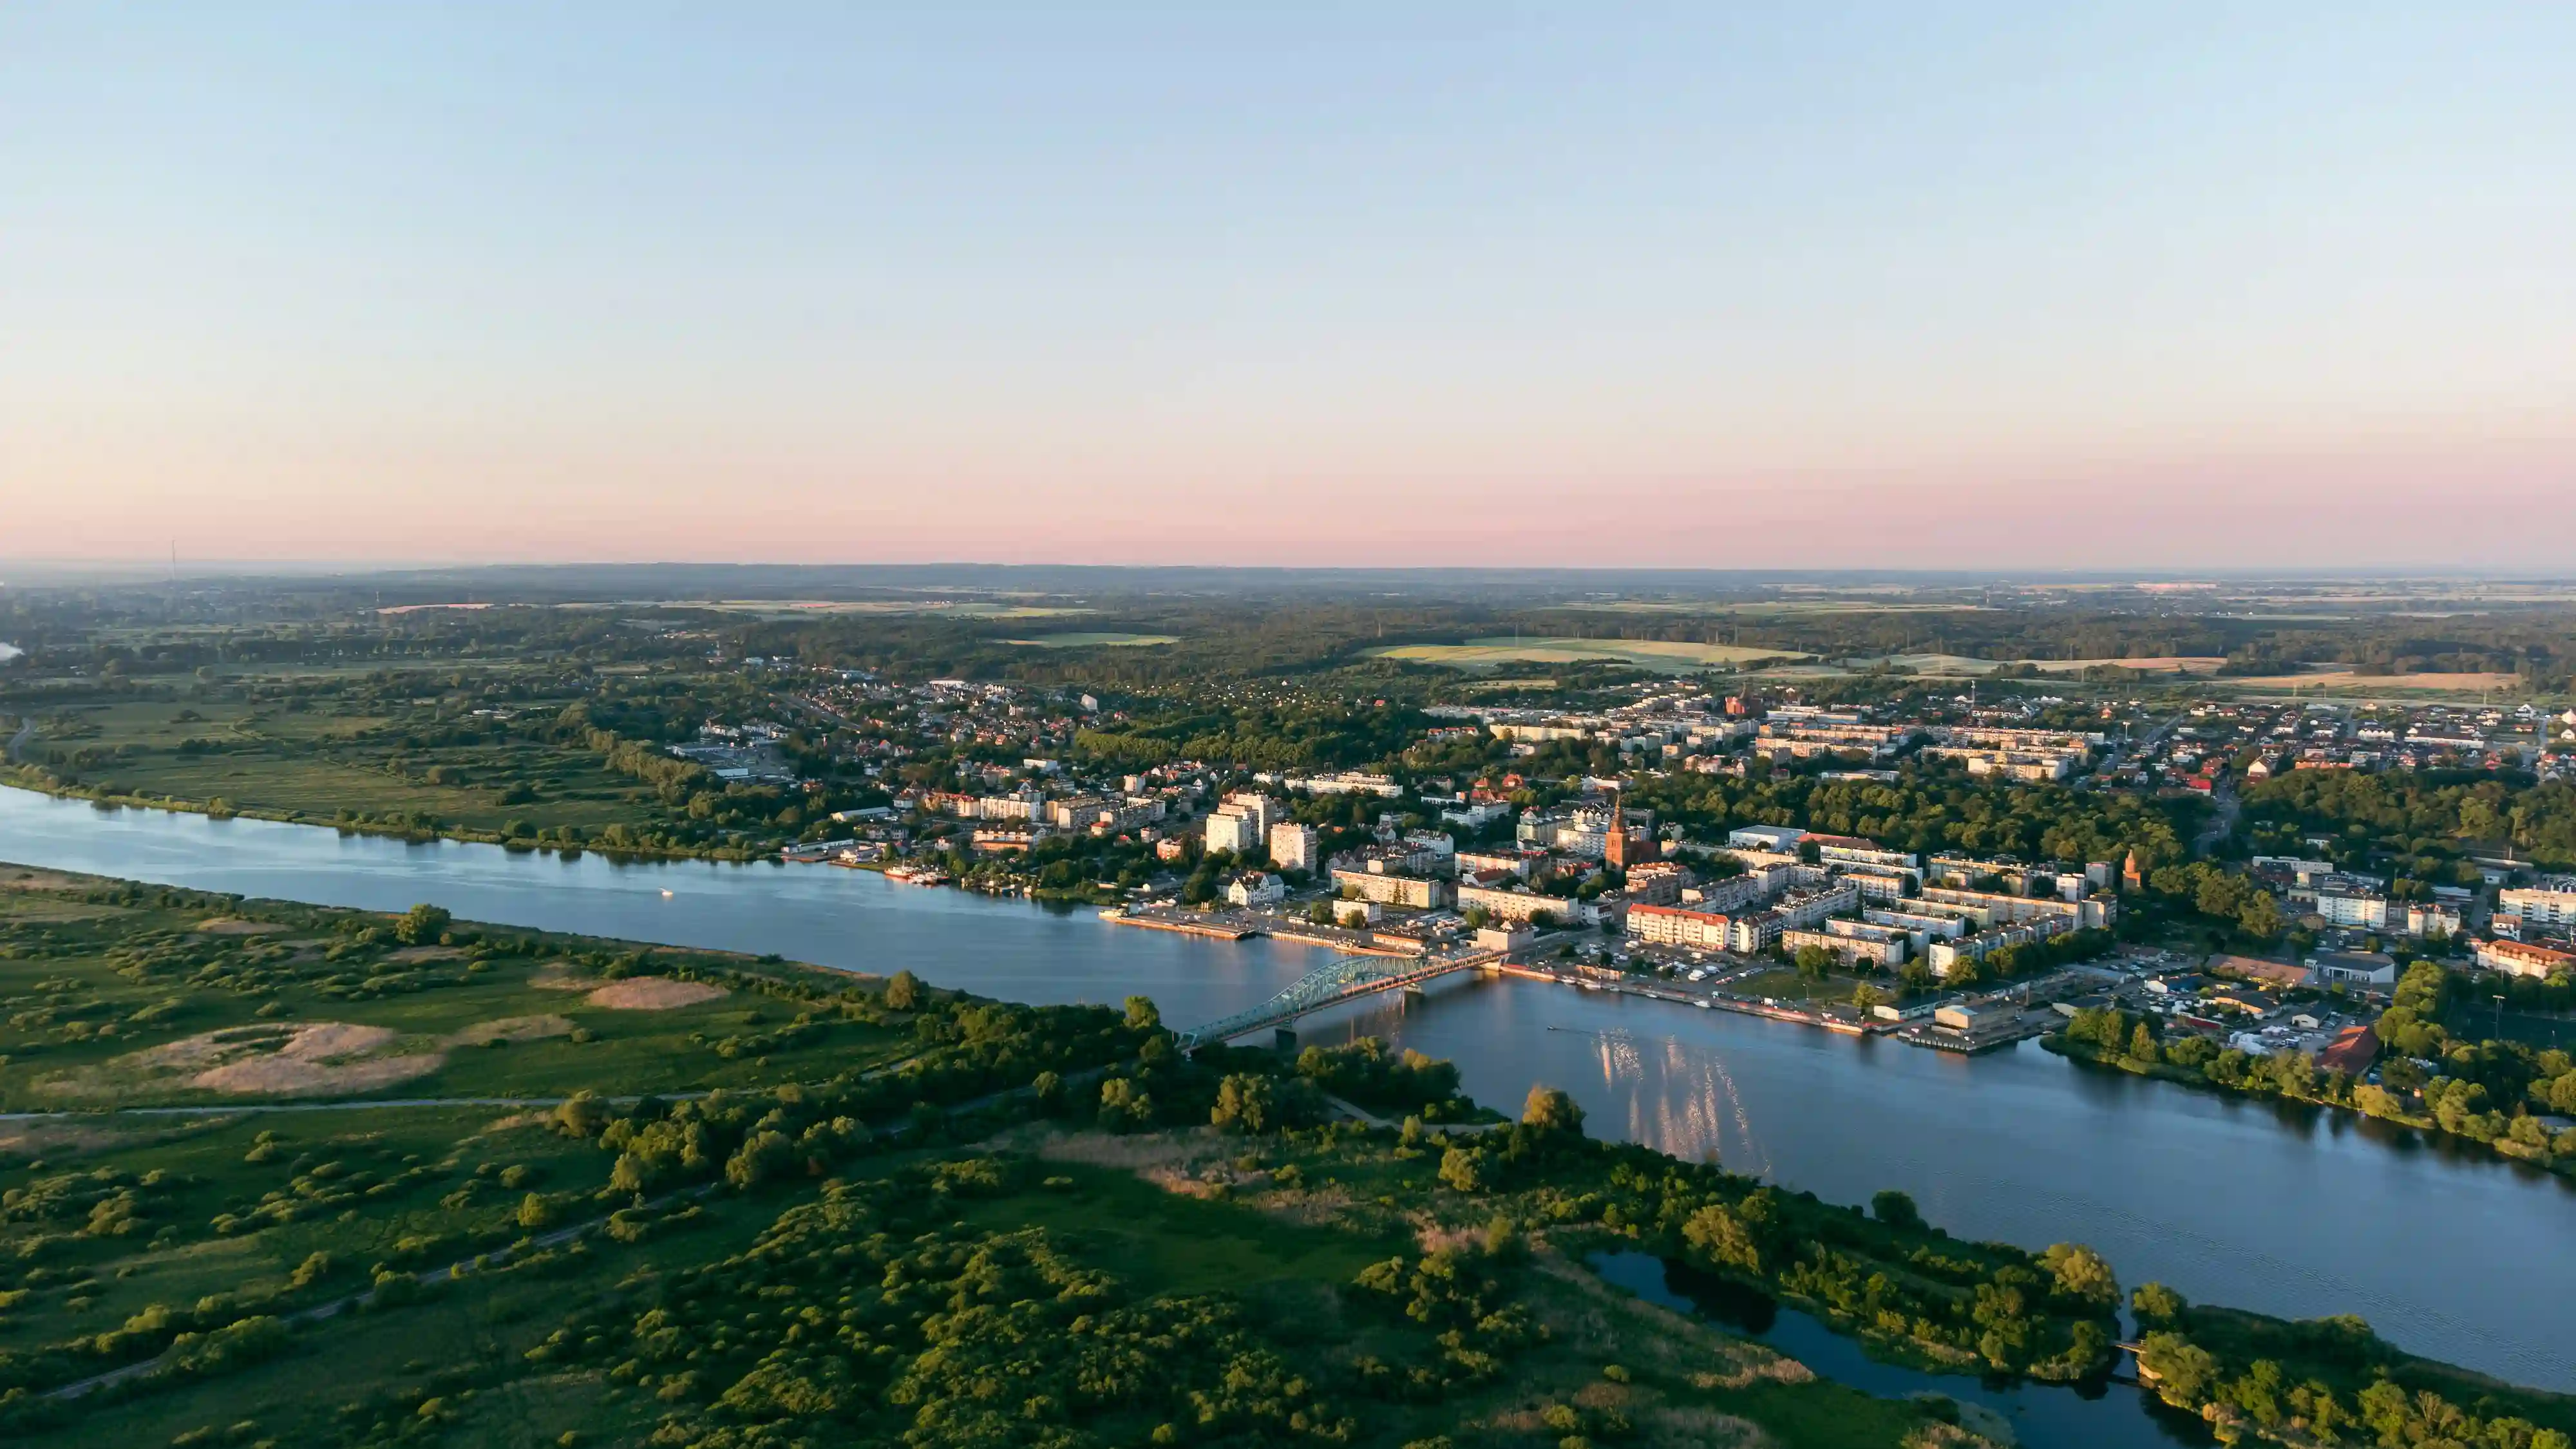
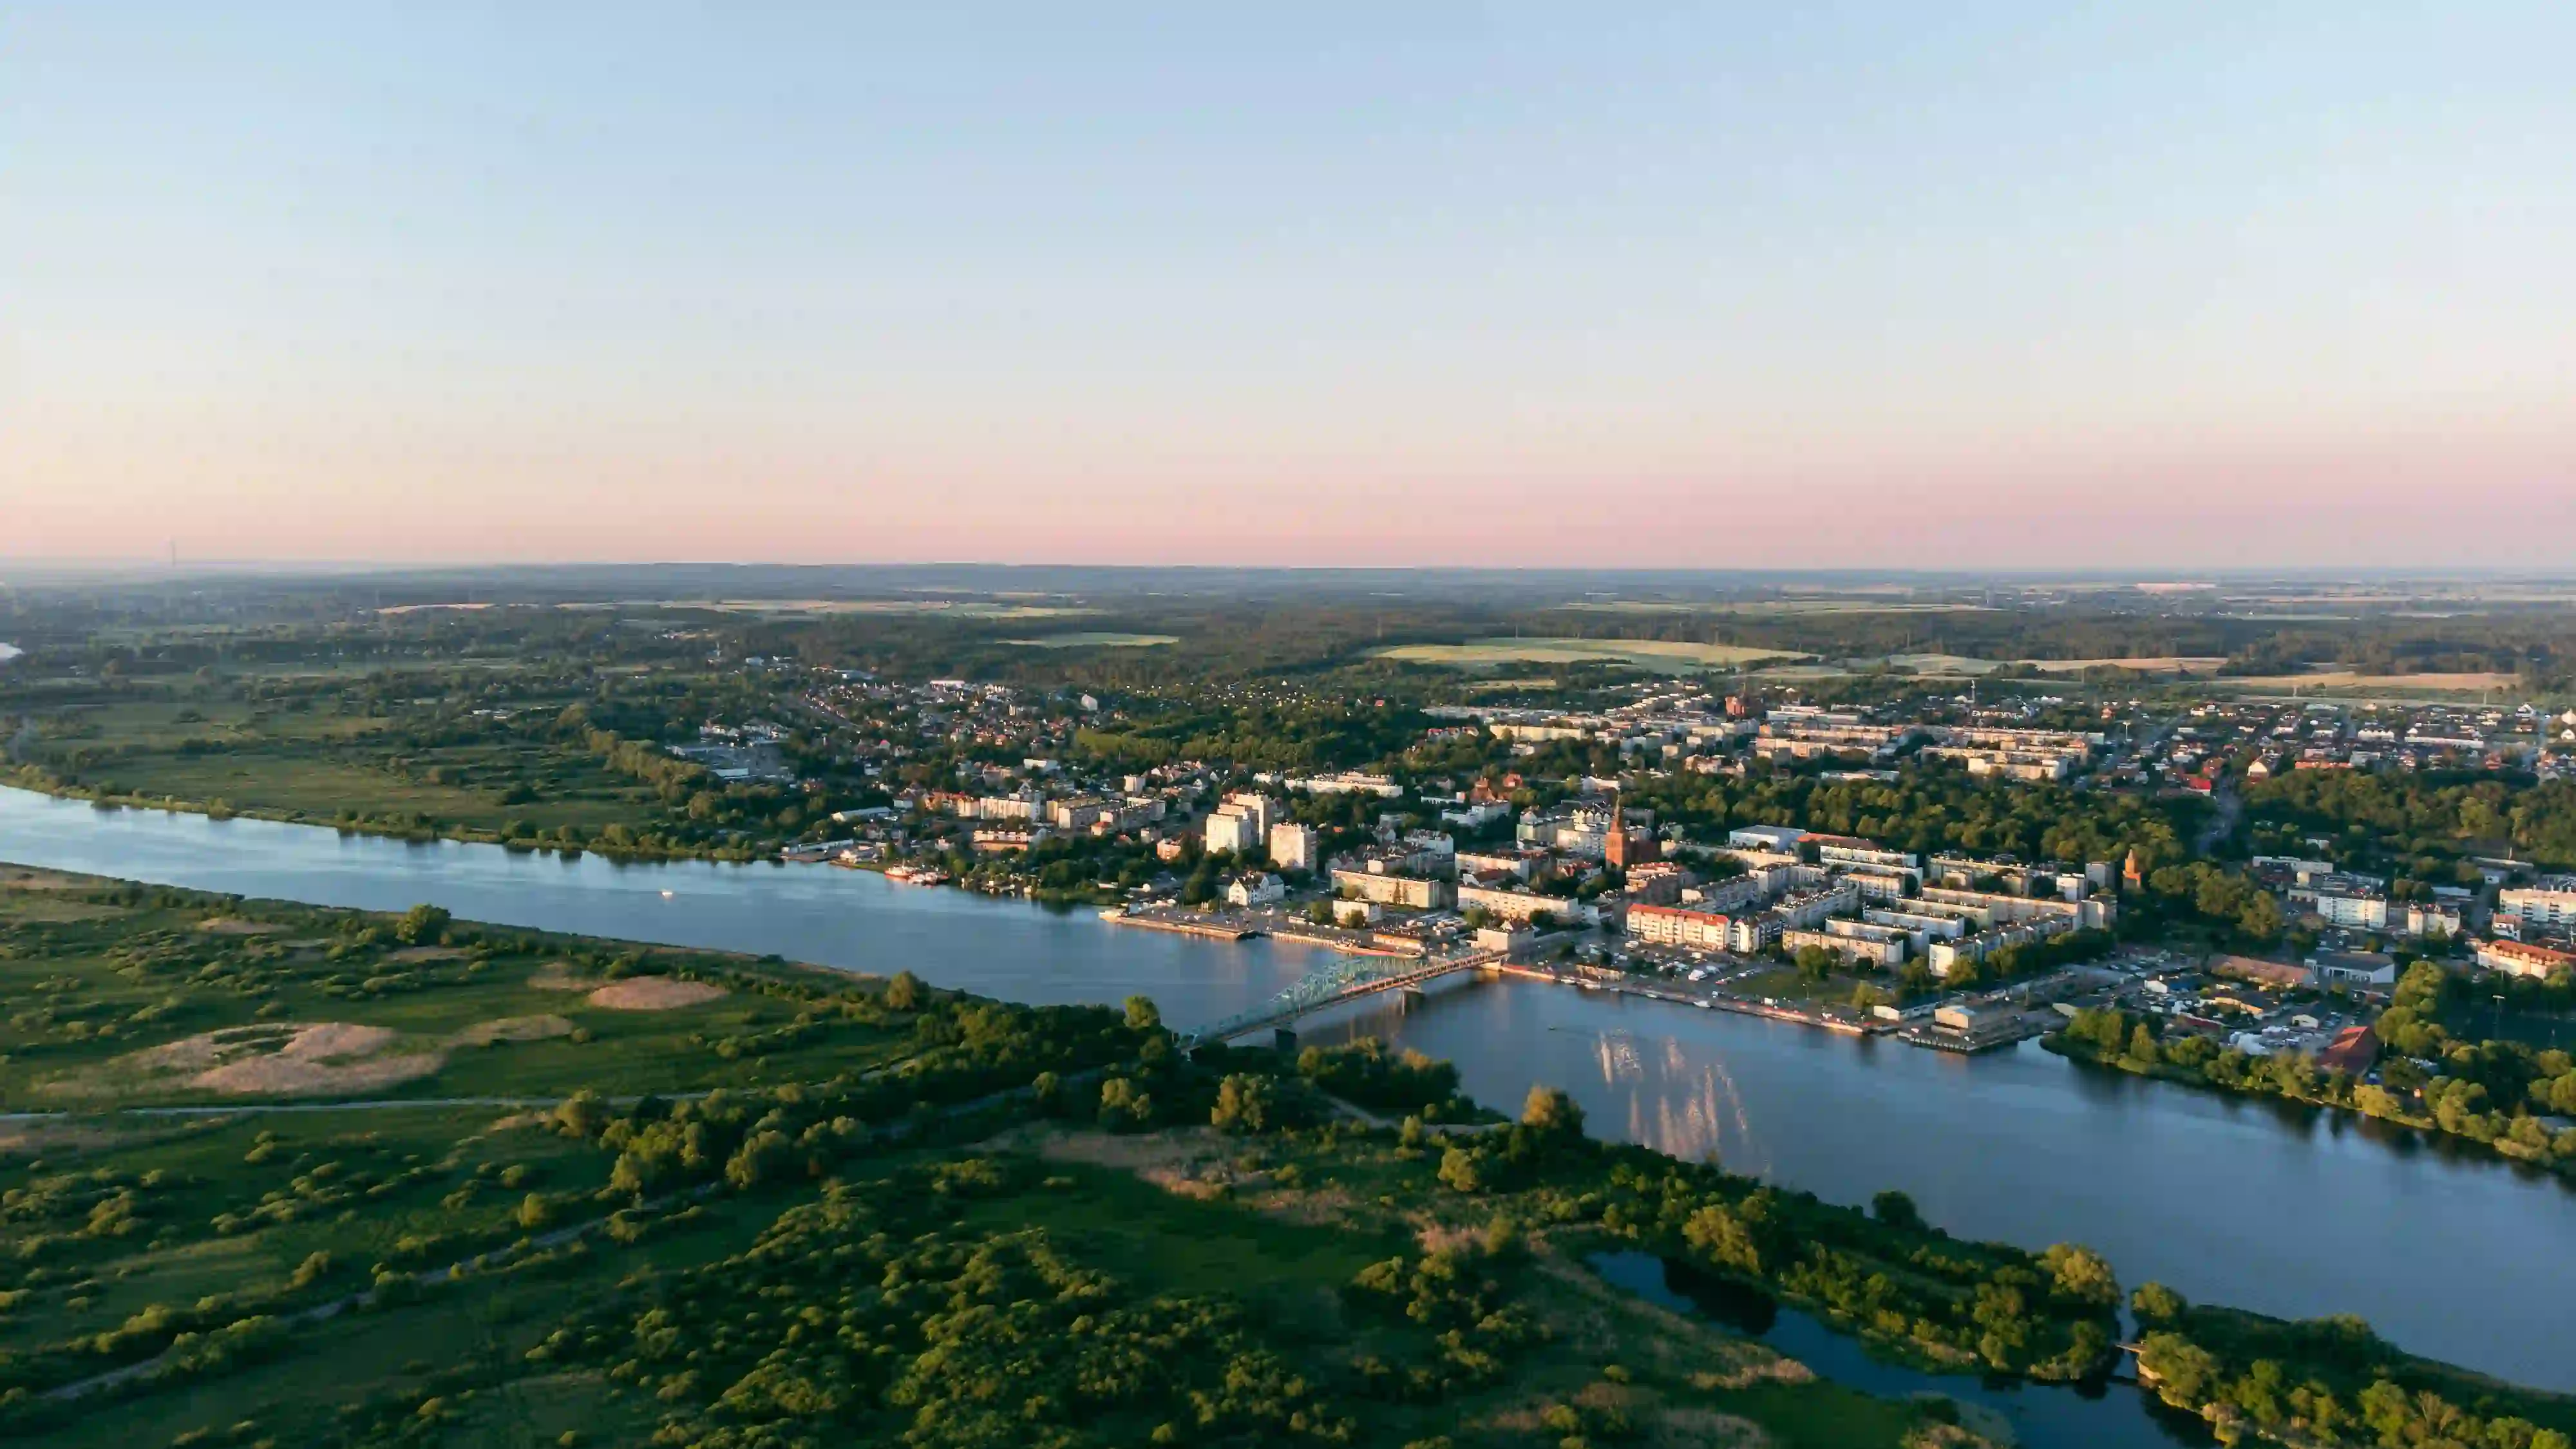
Fix page audit error

diff --git a/chamber/styles/small.css b/chamber/styles/small.css
@@ -74,7 +74,6 @@ body {
     text-decoration: none;
     color: var(--completed-color);
     transition: background-color 0.3s ease;
-    width: 100%;
     border-bottom: 1px solid #eee;
     z-index: 1000;
 }
@@ -111,13 +110,13 @@ body {
 
 .hero-text {
   position: absolute;
-  bottom: 25px;
-  left: 40px;
+  bottom: 7px;
+  left: 30px;
   color: white;
 }
 
-.hero-text p {
-  margin-top: 5px;
+.hero-text h1 {
+  margin-top: 10px;
   font-size: 1.2rem;
 }
 
@@ -135,7 +134,6 @@ body {
 
 .search-btn {
       padding: 5px 7px;
-      border: none;
       cursor: pointer;
       border: 1px solid black;
 }

diff --git a/chamber/directory.html b/chamber/directory.html
@@ -3,14 +3,14 @@
 <head>
     <meta charset="UTF-8">
     <meta name="viewport" content="width=device-width, initial-scale=1.0">
-    <meta name="description" content="The Kumasi Chamber of Commerce directory connects visitors with trusted local businesses, services, and networking opportunities in the Kumasi business community.">
+    <meta name="description" content="The Kumasi Chamber of Commerce directory connects visitors with trusted local businesses.">
     <meta name="author" content="Praymore Tettey Omeni">
     <meta property="og:title" content="Kumasi Chamber of Commerce Directory">
     <meta property="og:description" content="Explore local businesses, connect with trusted companies, and discover opportunities through the Kumasi Chamber of Commerce business directory.">
-    <meta property="og:image" content="https://yourusername.github.io/wdd231/chamber/images/chamber-directory-preview.jpg">
+    <meta property="og:image" content="https://yourusername.github.io/wdd231/chamber/images/meta-image.webp">
     <meta property="og:url" content="https://yourusername.github.io/wdd231/chamber/directory.html">
     <title>Kumasi Chamber Of Commerce | Directory</title>
-    <link rel="icon" href="">
+    <link rel="icon" href="./images/favicon.ico">
     <link rel="stylesheet" href="styles/normalize.css">
     <link rel="stylesheet" href="styles/small.css">
     <link rel="stylesheet" href="styles/larger.css">
@@ -50,7 +50,7 @@
         <img src="images/scenery3.webp" alt="Hero Image">
 
         <div class="hero-text">
-            <p>Support local. Connect regional. Grow together.</p>
+            <h1>Support local. Connect regional. Grow together.</h1>
         </div>
     </section>
     <section class="extra">

diff --git a/chamber/styles/larger.css b/chamber/styles/larger.css
@@ -42,7 +42,6 @@
 
     .search-btn {
         padding: 5px 7px;
-        border: none;
         cursor: pointer;
         border: 1px solid black;
     }